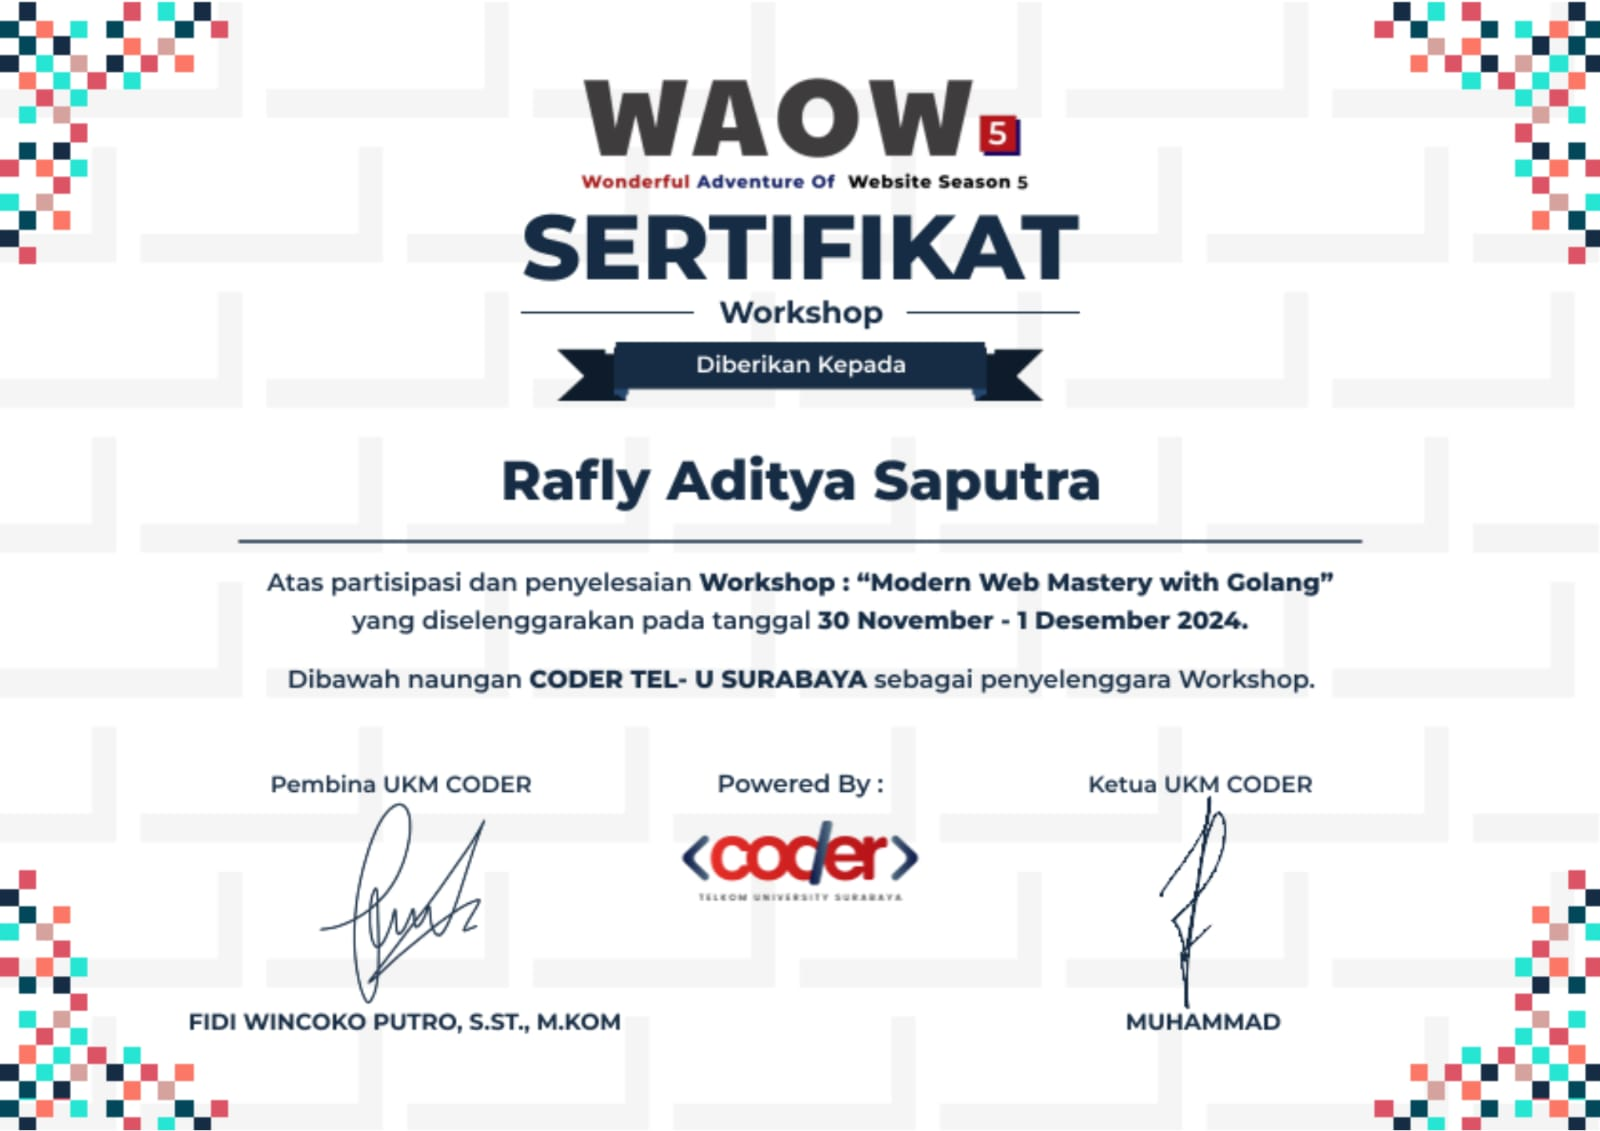
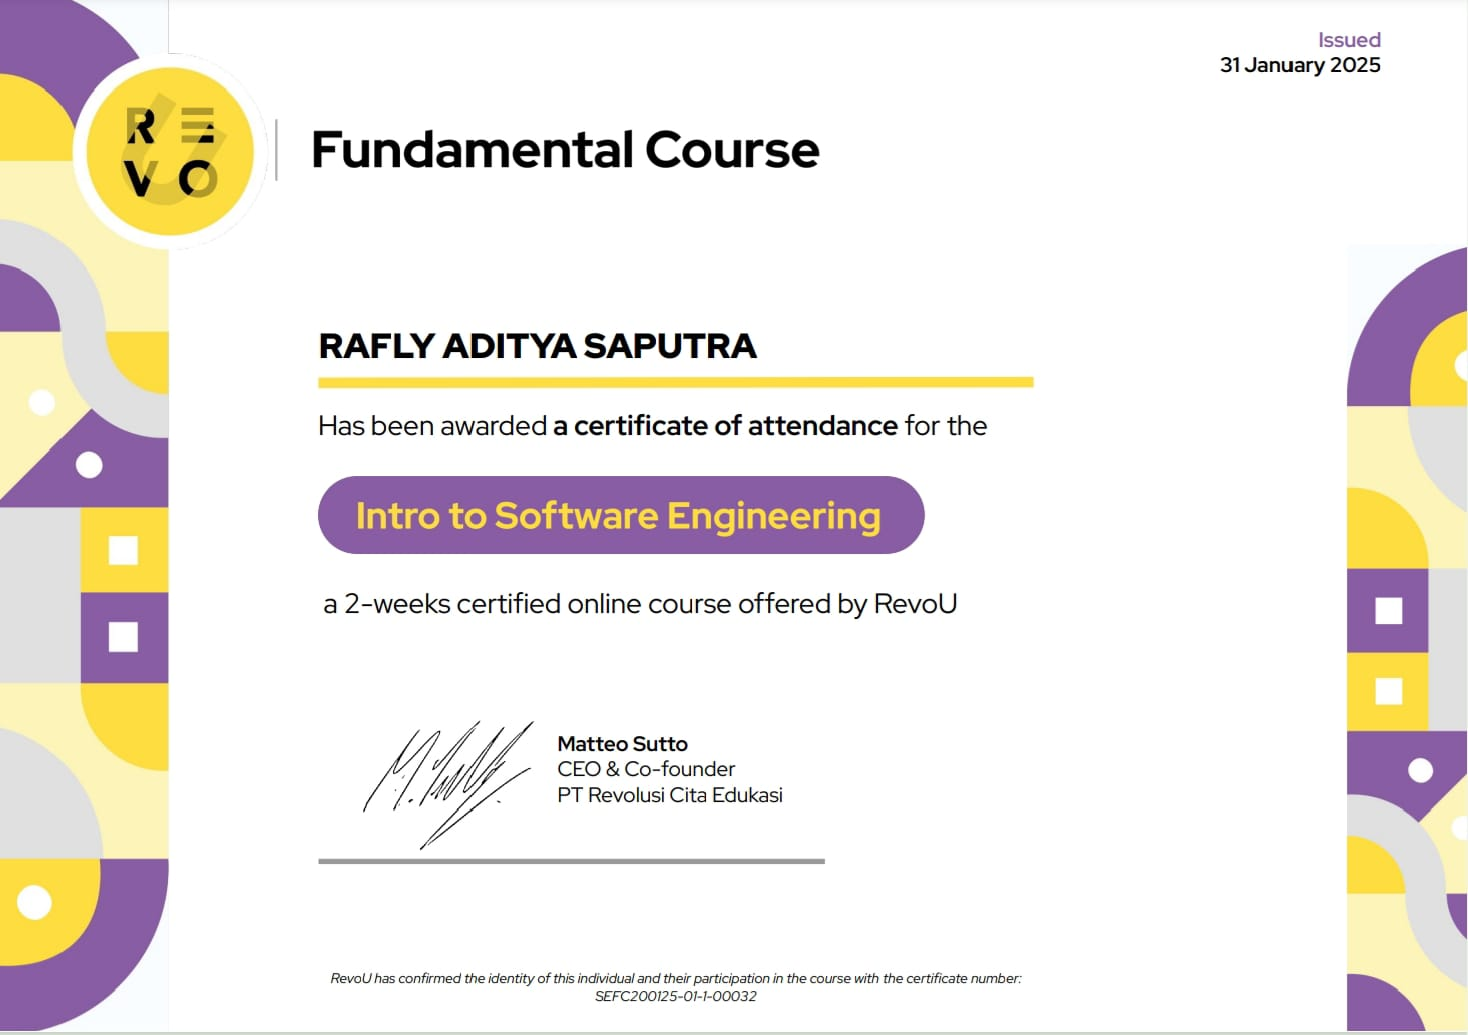
menambahkan sertifikat baru dan update html

diff --git a/index.html b/index.html
@@ -286,7 +286,7 @@
                 </div>
                 <div class="box" data-aos="fade-up" data-aos-duration="1000">
                     <img src="./assets/img/sertifikat/sertifikat4.jpg" alt="unplash.com">
-                    <h3>Certificate Workshop Golang</h3>
+                    <h3>Certificate Software Engginering</h3>
                     </div>
                 <div class="box" data-aos="fade-up" data-aos-duration="1000" data-aos-delay="300">
                     <img src="./assets/img/sertifikat/sertifikat5.jpg" alt="unplash.com">
@@ -294,7 +294,7 @@
                 </div>
                 <div class="box" data-aos="fade-up" data-aos-duration="1000" data-aos-delay="350">
                     <img src="./assets/img/sertifikat/sertifikat6.jpg" alt="unplash.com">
-                    <h3>Certificate Software Enginering</h3>
+                    <h3>Certificate Bootcamp MySkill</h3>
                 </div>
             </div>
         </div>
@@ -314,7 +314,7 @@
             <div class="box" data-aos="fade-up" data-aos-duration="1000" data-aos-delay="350">
                 <h1>Resume</h1>
                 <p>Detail Tentang CV saya</p>
-                    <a href="https://drive.google.com/file/d/1tz24xqKVUaQm5UvvtAzA6sZ0uITxuoit/view?usp=drivesdk" target="_blank">My Resume</a>
+                    <a href="https://drive.google.com/file/d/1LffdNZeyN527GlyT2iRZLS-nRHZ5WkOC/view?usp=drivesdk" target="_blank">My Resume</a>
             </div>
         </div>
     </div>
